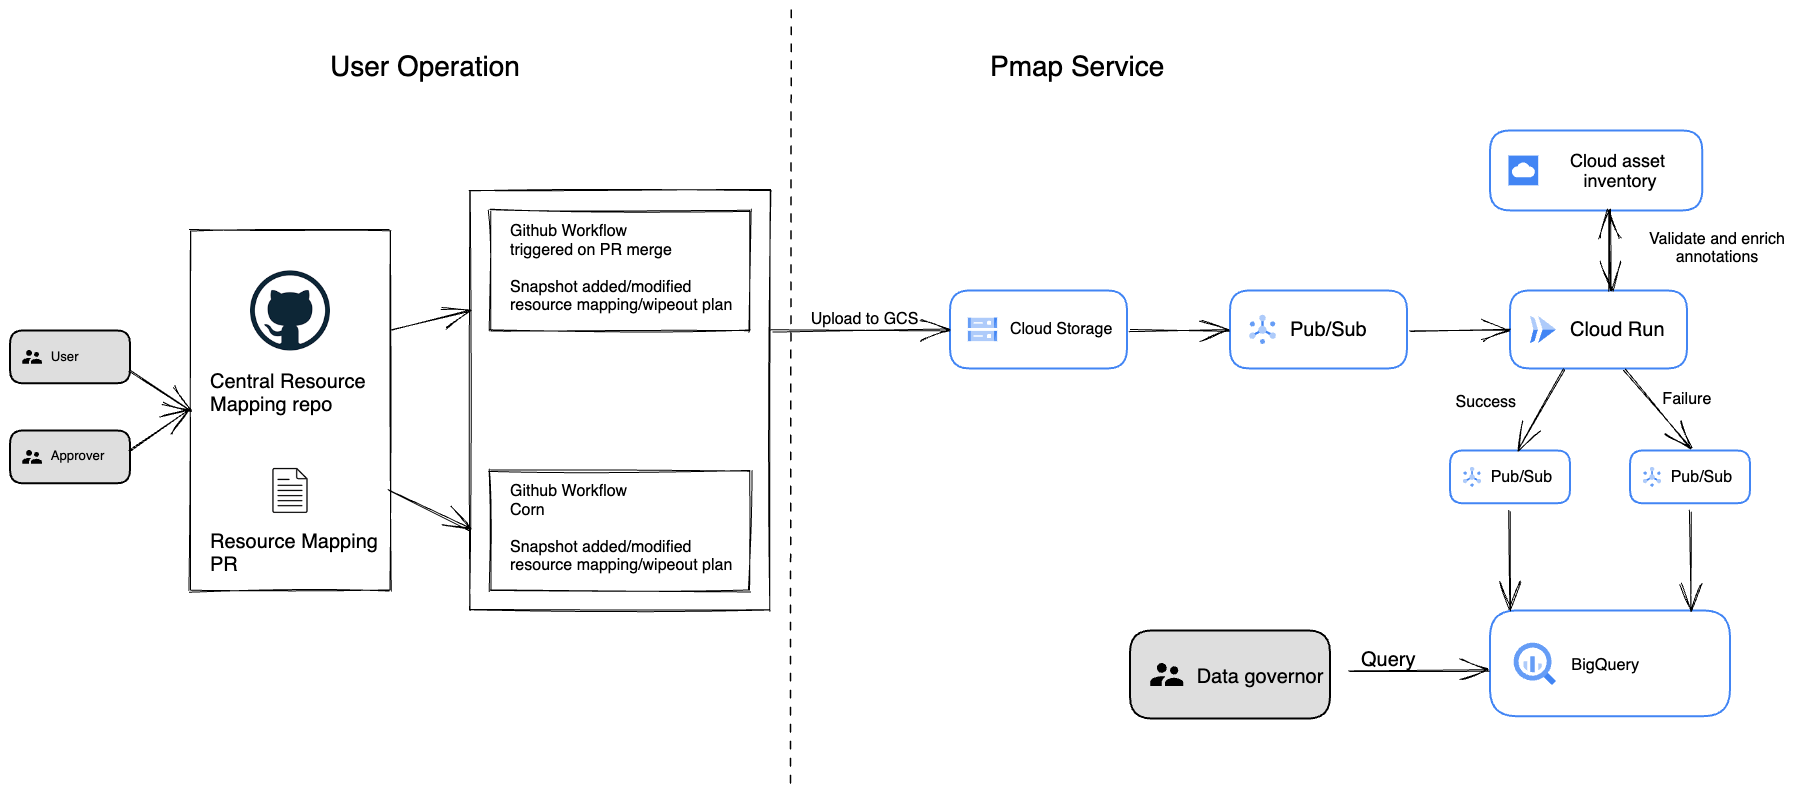
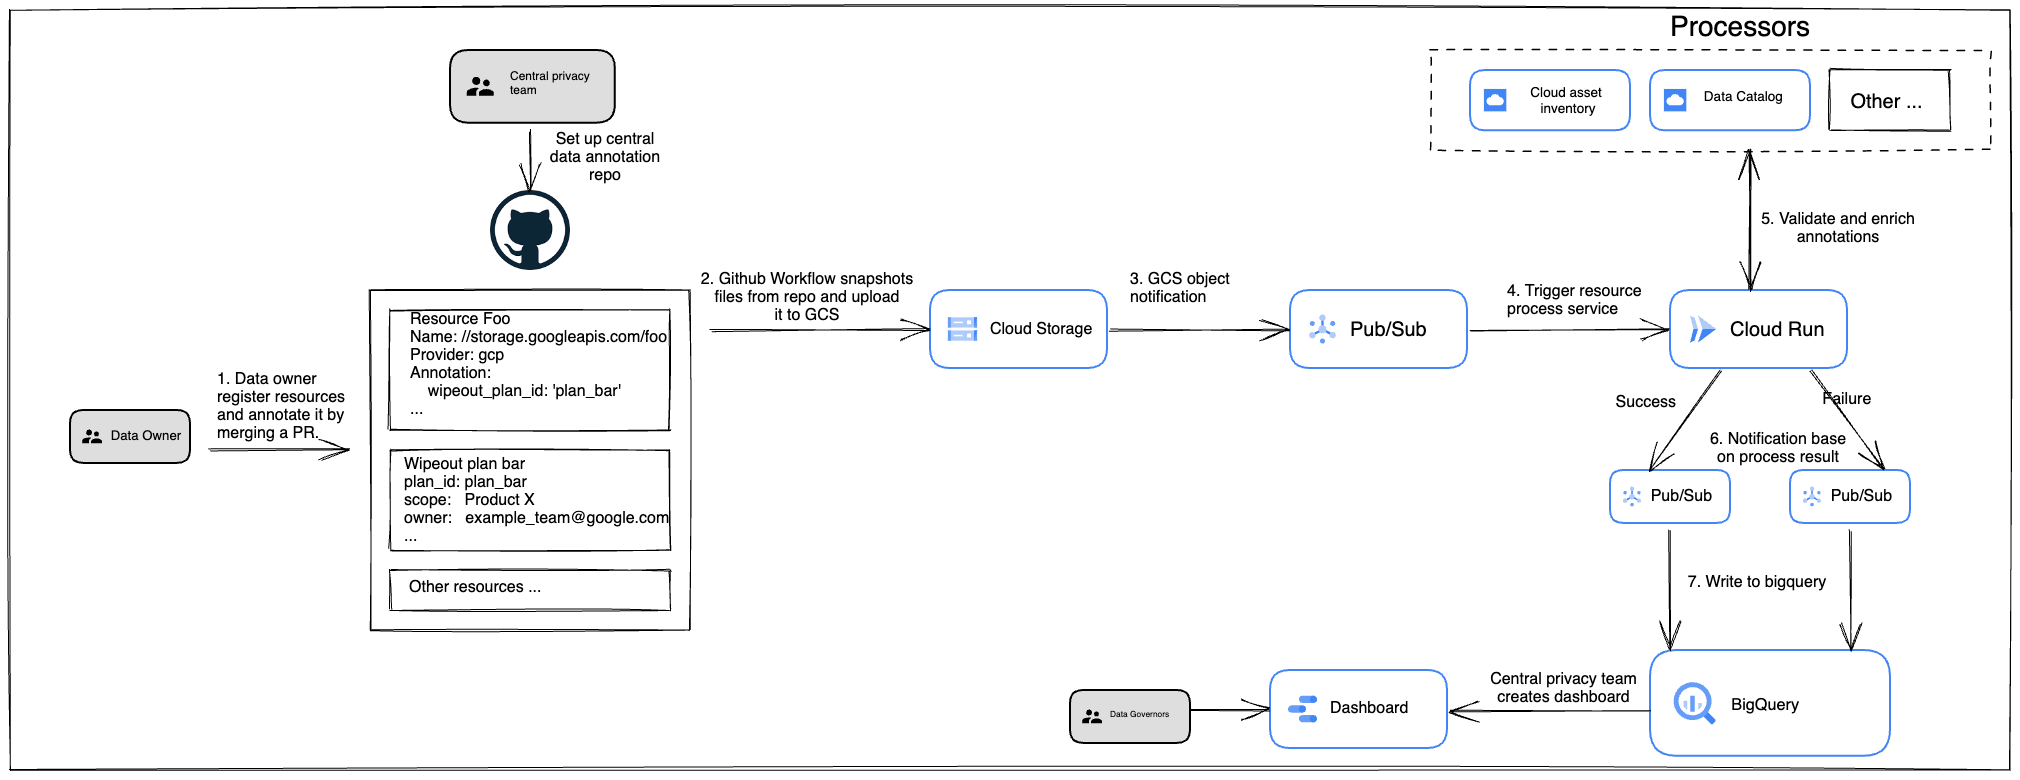
update

diff --git a/README.md b/README.md
@@ -2,50 +2,20 @@
 
 **This is not an official Google product.**
 
-Pmap is a service for privacy data mapping and privacy plans management to
-conform with Alphabet privacy policies on data classification and inventory.
-
-## Use case
-
-Pmap can be used for users to map specific resources with wipeout plan to adopt
-or maintain privacy policies on data classification and inventory.
+Privacy data mapping and related plans management.
 
 ## Architecture
 
 ![pmap architecture](./docs/assets/pmap-arch.png)
 
-Pmap service will be triggered when snapshots as yaml files are uploaded to GCS
-bucket. A pubsub topic will subscribe the cloud storage notifications, and push
-the notification to cloud run service. Cloud run service will validate and
-enrich the annotations, and write the result to bigquery table.
+## End user workflow
 
-## End User workflow
+1. Pmap service will be triggered when:
 
-There are two ways for end users to use pmap service.
+   - Data owner merges a PR that triggers github workflow to snapshot added/modifed resource/wipeout plan and upload them to GCS.
+   - A cron job that snapshot all resource/wipeout plan and upload them to GCS.
 
-1. Upload the resource annotation as a yaml file through a PR, when the PR is
-   merged, a github workflow will be triggered to snapshot the newly added files
-   and upload it to Pmap service's GCS bucket. User will be able to query the
-   result in bigquery table.
-2. A corn job will snapshot all yaml files and upload them to pmap service's GCS
-   bucket. Users will be able to query te result in bigquey table.
-
-## Installation
-
-You can use the provided Terraform module to setup the basic infrastructure
-needed for this service. Otherwise you can refer to the provided module to see
-how to build your own Terraform from scratch.
-
-``` terraform
-
-module "e2e" {
-  source = "git::https://github.com/abcxyz/pmap.git//terraform/e2e?ref=main"
-
-  project_id = "Your project ID"
-
-  gcs_bucket_name                  = "Your GCS bucket name where snapshots will be uploaded to"
-  pmap_container_image             = "us-docker.pkg.dev/abcxyz-artifacts/docker-images/pmap:0.0.3-amd64" 
-  bigquery_table_delete_protection = true
-  pmap_specific_envvars            = { "PMAP_MAPPING_DEFAULT_RESOURCE_SCOPE" : The default scope for querying cloud resources, this can be one of the following values: projects/{PROJECT_ID}, projects/{PROJECT_NUMBER}, folders/{FOLDER_NUMBER}, organizations/{ORGNANIZATION_NUMBER}}
-}
-```
+2. Pubsub topic will subscribe to gcs object notifications, and push
+the notification to cloud run service to trigger service (as cloud run service) to start enriching and validating data.
+3. After service processing data, the result will be sent as notification to pubsub, and wrote to bigquery table.
+4. Central privacy team create dashboards base on bigquery and governors review result through the dashboard.
